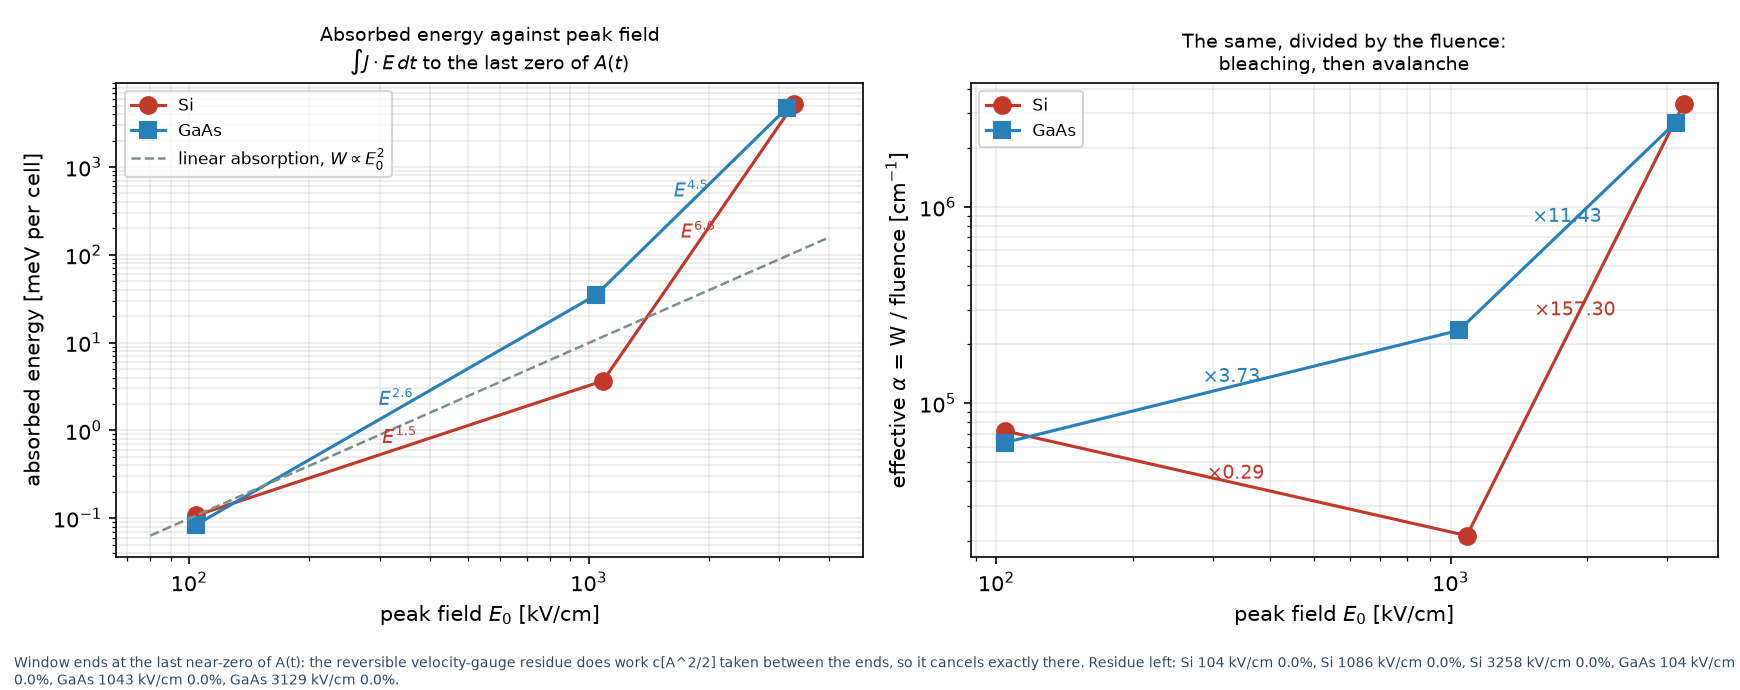
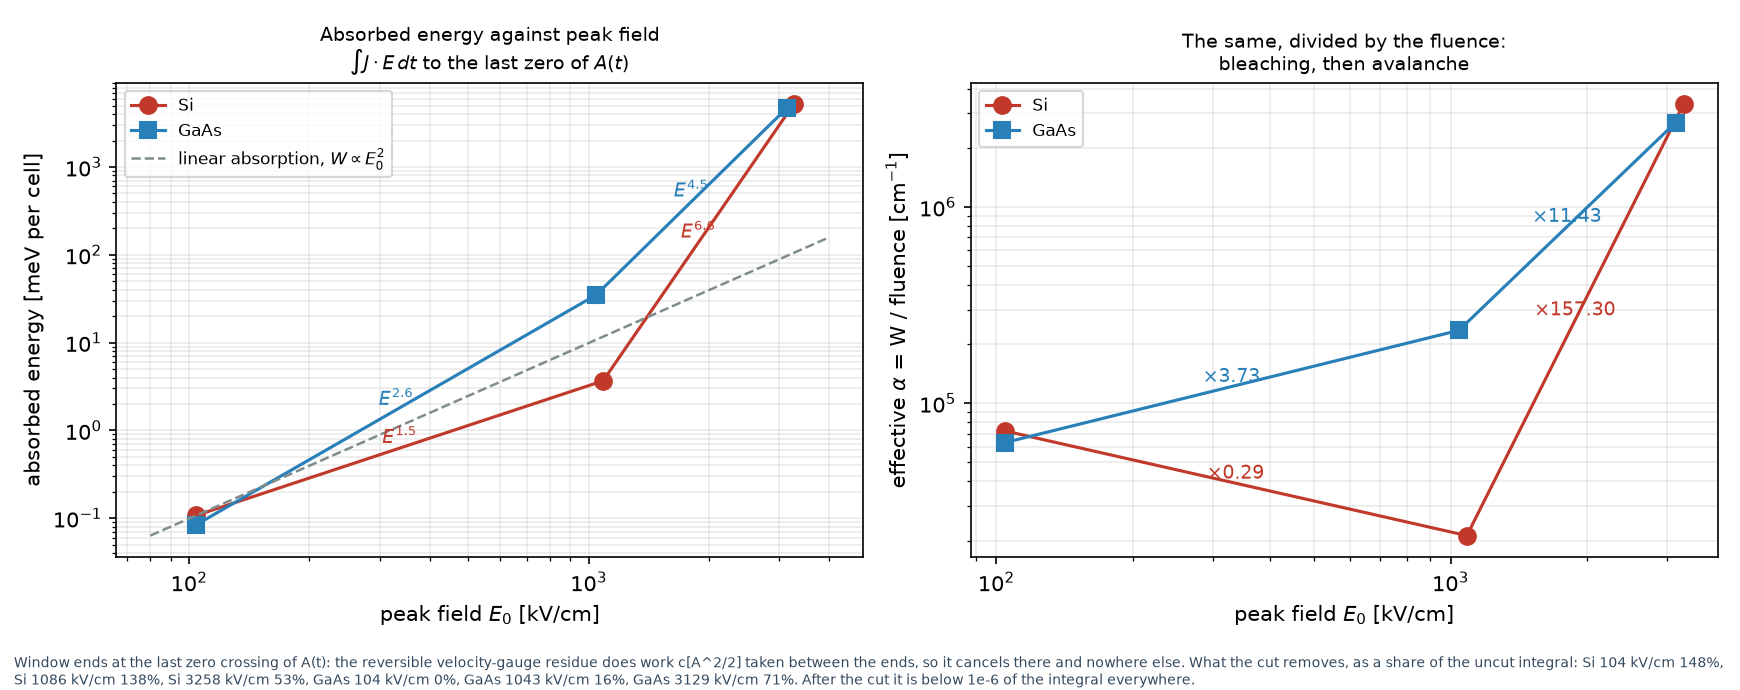
Put the useful residue number on the figure: what the cut removes, not what is left
After the cut the leftover is 2e-8 to 1e-6 of the integral on every record --
true, and useless as a footnote. The number a reader needs is how much the cut
removed, which is what the window is FOR: 148, 138 and 53 % of the uncut
integral for Si at 104, 1086 and 3258 kV/cm, and 0.5, 16 and 71 % for GaAs at
104, 1043 and 3129.

Those shares are computed from the full component of J proportional to A --
the basis residue and the real free-carrier inertia together -- which is the
operationally right quantity, since the work of ANY current proportional to A
is a perfect differential and cancels together at A = 0. (The basis residue
alone, eta N_e A^2/2, is smaller: 148, 94, 2.8 % for Si and 0.5, 5.9, 4.3 % for
GaAs. The two agree where carriers are scarce and part where they are not.)

Data points unchanged: W and alpha are identical to every digit before and
after the unit fix, because the fault was only in the diagnostic printed
beside them.

32/32.

Claude-Session: https://claude.ai/code/session_01BPmECfuWC7UD3rhcA1hTKp

Changed region(s): [[0.0, 0.9435, 1.0, 1.0]]

diff --git a/samples/exercise_x11_full_dissipation_showcase/thz_permittivity.py b/samples/exercise_x11_full_dissipation_showcase/thz_permittivity.py
@@ -120,8 +120,11 @@ def absorbed_energy(run, cell_A3):
     residue = abs(c * (A[i]**2 - A[0]**2) / 2 * conv)
     F = EPS0 * C_SI * np.trapezoid(Ei[:i + 1]**2, t[:i + 1]) * 1e3 / 1e4   # mJ/cm^2
     alpha = (W * 1e-3 * E_SI / (cell_A3 * 1e-24)) / (F * 1e-3)             # 1/cm
+    W_full = np.trapezoid(J * Et, t) * conv
+    residue_full = abs(c * (A[-1]**2 - A[0]**2) / 2 * conv)
     return dict(W_meV=W, residue_frac=residue / max(abs(W), 1e-30), t_cut_fs=t[i] * 1e15,
-                F_mJcm2=F, alpha_cm=alpha, A_end_rel=abs(A[i]) / np.abs(A).max())
+                F_mJcm2=F, alpha_cm=alpha, A_end_rel=abs(A[i]) / np.abs(A).max(),
+                W_full_meV=W_full, residue_full_frac=residue_full / max(abs(W_full), 1e-30))
 
 
 def optics(eps, f_thz):
@@ -296,10 +299,12 @@ def main(argv=None):
         for a in ax2:
             a.set_xlabel('peak field $E_0$ [kV/cm]')
             a.grid(alpha=0.25, which='both'); a.legend(fontsize=8)
-        note = ('Window ends at the last near-zero of A(t): the reversible velocity-gauge residue '
-                'does work c[A^2/2] taken between the ends, so it cancels exactly there. Residue left: '
-                + ', '.join(f'{r["name"].split("_")[0]} {r["Epk"]:.0f} kV/cm {r["ab"]["residue_frac"]:.1%}'
-                            for r in rows) + '.')
+        note = ('Window ends at the last zero crossing of A(t): the reversible velocity-gauge '
+                'residue does work c[A^2/2] taken between the ends, so it cancels there and '
+                'nowhere else. What the cut removes, as a share of the uncut integral: '
+                + ', '.join(f'{r["name"].split("_")[0]} {r["Epk"]:.0f} kV/cm '
+                            f'{r["ab"]["residue_full_frac"]:.0%}' for r in rows)
+                + '. After the cut it is below 1e-6 of the integral everywhere.')
         f2.text(0.008, 0.008, note, fontsize=6.8, color='#34495e', wrap=True)
         f2.tight_layout(rect=(0, 0.06, 1, 1)); f2.savefig(args.absorbed_out, dpi=150)
         print(f'# wrote {args.absorbed_out}')
